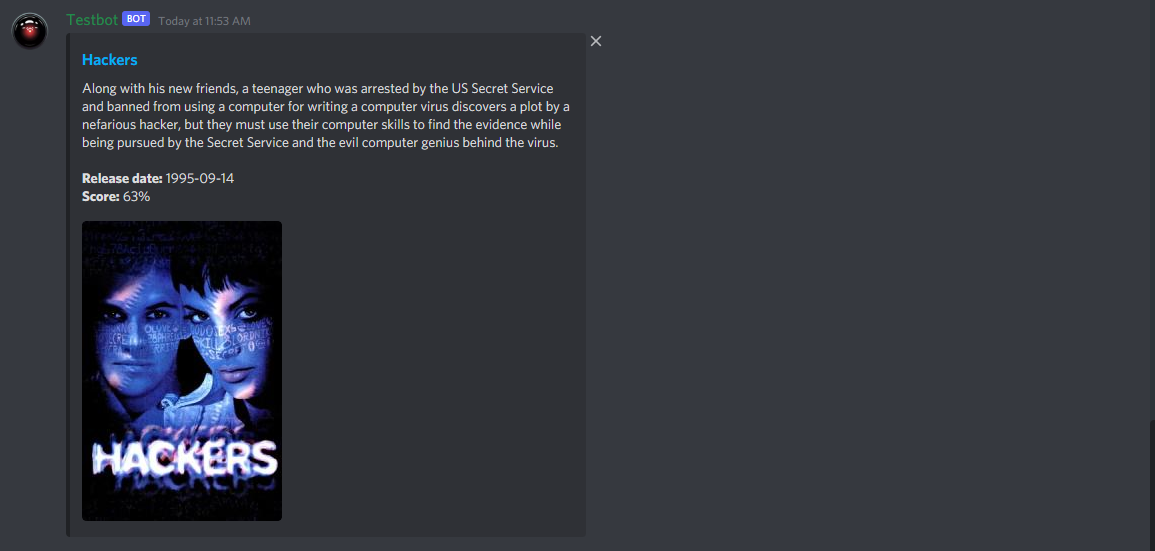
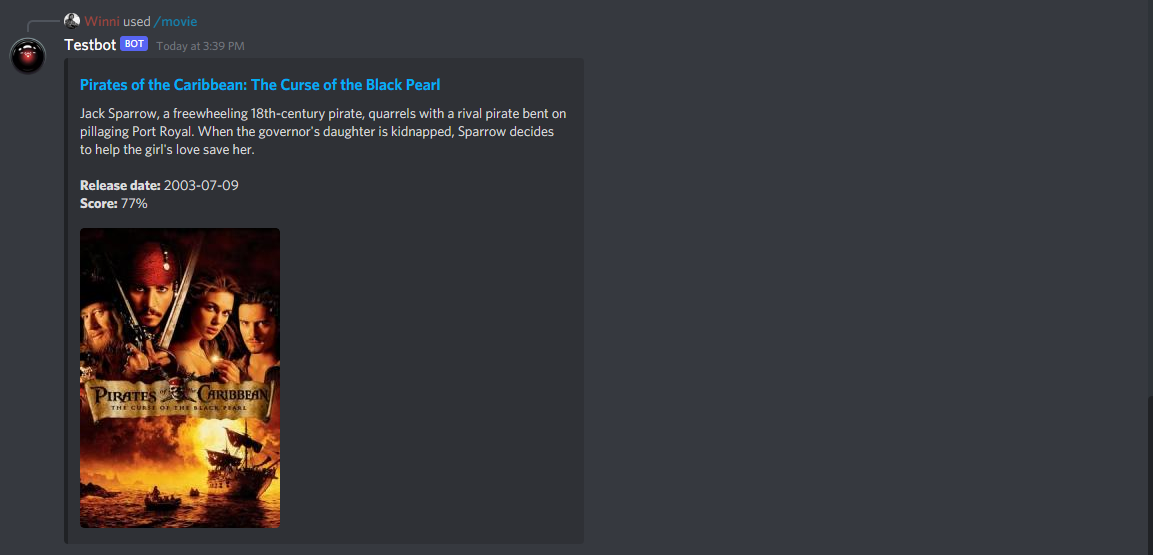
v1.4.6-DEV: Slash all the commands \o/
* Converted `!movie` into slash cmd `/movie`
* Converted `!tv` into slash cmd `/tv`
* Updated `!help` accordingly
* Updated README.md
* Updated screenshots

Changed region(s): [[0.0624, 0.3085, 0.2498, 0.9564], [0.0, 0.0, 0.4996, 0.2777]]

diff --git a/bot/command_handler.go b/bot/command_handler.go
@@ -54,105 +54,6 @@ func (b *Bot) CommandHandler(s *discordgo.Session, m *discordgo.MessageCreate) {
 	l.Debugf("Received a %q command from %v", command, userObj.AuthorName)
 	switch {
 
-	// Check Urban dictionary
-	case command == "!ud" || command == "!urban":
-		if cmdNum == 1 {
-			em, err := handler.UrbanDict(b.HttpClient, "")
-			if err != nil {
-				re := fmt.Sprintf("An error occurred while fetching the urban dictionary API: %v", err)
-				response.AnswerUser(s, m, re, true)
-				return
-			}
-			response.Embed(s, chanInfo.ID, em)
-			return
-		}
-		if cmdNum == 2 {
-			em, err := handler.UrbanDict(b.HttpClient, msgArray[1])
-			if err != nil {
-				re := fmt.Sprintf("An error occurred while fetching the urban dictionary API: %v", err)
-				response.AnswerUser(s, m, re, true)
-				return
-			}
-			response.Embed(s, chanInfo.ID, em)
-			return
-		}
-
-	// Get a random movie recommendation
-	case command == "!movie":
-		if cmdNum == 1 {
-			if b.TMDb == nil {
-				re := "You haven't specified a TMDb API key in your config file."
-				response.AnswerUser(s, m, re, true)
-				return
-			}
-			em, err := handler.TMDbRandMovie(b.TMDb)
-			if err != nil {
-				re := fmt.Sprintf("An error occurred while fetching the TMDB API: %v", err)
-				response.AnswerUser(s, m, re, true)
-				return
-			}
-			response.Embed(s, chanInfo.ID, em)
-			return
-		}
-		if cmdNum > 1 {
-			if b.TMDb == nil {
-				re := "You haven't specified a TMDb API key in your config file."
-				response.AnswerUser(s, m, re, true)
-				return
-			}
-			em, err := handler.TMDbSearchMovie(b.TMDb, msgArray[1:])
-			if err != nil {
-				if err.Error() == "No matching movie found" {
-					re := "Sorry, but I wasn't able to find a movie matching your search criteria."
-					response.AnswerUser(s, m, re, true)
-					return
-				}
-				re := fmt.Sprintf("An error occurred while fetching the TMDB API: %v", err)
-				response.AnswerUser(s, m, re, true)
-				return
-			}
-			response.Embed(s, chanInfo.ID, em)
-			return
-		}
-
-	// Get a random movie recommendation
-	case command == "!tv":
-		if cmdNum == 1 {
-			if b.TMDb == nil {
-				re := "You haven't specified a TMDb API key in your config file."
-				response.AnswerUser(s, m, re, true)
-				return
-			}
-			em, err := handler.TMDbRandTvSeries(b.TMDb)
-			if err != nil {
-				re := fmt.Sprintf("An error occurred while fetching the TMDB API: %v", err)
-				response.AnswerUser(s, m, re, true)
-				return
-			}
-			response.Embed(s, chanInfo.ID, em)
-			return
-		}
-		if cmdNum > 1 {
-			if b.TMDb == nil {
-				re := "You haven't specified a TMDb API key in your config file."
-				response.AnswerUser(s, m, re, true)
-				return
-			}
-			em, err := handler.TMDbSearchTvSeries(b.TMDb, msgArray[1:])
-			if err != nil {
-				if err.Error() == "No matching TV series found" {
-					re := "Sorry, but I wasn't able to find a TV series matching your search criteria."
-					response.AnswerUser(s, m, re, true)
-					return
-				}
-				re := fmt.Sprintf("An error occurred while fetching the TMDB API: %v", err)
-				response.AnswerUser(s, m, re, true)
-				return
-			}
-			response.Embed(s, chanInfo.ID, em)
-			return
-		}
-
 	// SoT: Set RAT cookie
 	case (command == "!setrat" || command == "!rat"):
 		if chanInfo.Type != discordgo.ChannelTypeDM {

diff --git a/bot/slashcmd_handler.go b/bot/slashcmd_handler.go
@@ -340,5 +340,55 @@ func (b *Bot) SlashCmdHandler(s *discordgo.Session, i *discordgo.InteractionCrea
 		}
 		response.SlashCmdEmbedDeferred(s, i.Interaction, em)
 		return
+
+	// TMDB: Return the details of a random or specific movie
+	case cmdName == "movie":
+		response.SlashCmdResponseDeferred(s, i.Interaction)
+		if b.TMDb == nil {
+			re := "You haven't specified a TMDB API key in your config file."
+			response.SlashCmdResponseEdit(s, i.Interaction, userObj, re, true)
+			return
+		}
+		var em *discordgo.MessageEmbed
+		var err error
+		if len(i.Data.Options) != 1 {
+			em, err = handler.TMDbRandMovie(b.TMDb)
+		}
+		if len(i.Data.Options) == 1 {
+			movieTitle := i.Data.Options[0].StringValue()
+			em, err = handler.TMDbSearchMovie(b.TMDb, movieTitle)
+		}
+		if err != nil {
+			re := fmt.Sprintf("An error occurred fetching result from TMDB: %v", err)
+			response.SlashCmdResponseEdit(s, i.Interaction, userObj, re, true)
+			return
+		}
+		response.SlashCmdEmbedDeferred(s, i.Interaction, em)
+		return
+
+	// TMDB: Return the details of a random or specific TV show
+	case cmdName == "tv":
+		response.SlashCmdResponseDeferred(s, i.Interaction)
+		if b.TMDb == nil {
+			re := "You haven't specified a TMDB API key in your config file."
+			response.SlashCmdResponseEdit(s, i.Interaction, userObj, re, true)
+			return
+		}
+		var em *discordgo.MessageEmbed
+		var err error
+		if len(i.Data.Options) != 1 {
+			em, err = handler.TMDbRandTvShow(b.TMDb)
+		}
+		if len(i.Data.Options) == 1 {
+			showTitle := i.Data.Options[0].StringValue()
+			em, err = handler.TMDbSearchTvShow(b.TMDb, showTitle)
+		}
+		if err != nil {
+			re := fmt.Sprintf("An error occurred fetching result from TMDB: %v", err)
+			response.SlashCmdResponseEdit(s, i.Interaction, userObj, re, true)
+			return
+		}
+		response.SlashCmdEmbedDeferred(s, i.Interaction, em)
+		return
 	}
 }

diff --git a/handler/tmdb_search.go b/handler/tmdb_search.go
@@ -7,16 +7,12 @@ import (
 	log "github.com/sirupsen/logrus"
 )
 
-func TMDbSearchMovie(t *tmdb.TMDb, q []string) (*discordgo.MessageEmbed, error) {
+func TMDbSearchMovie(t *tmdb.TMDb, q string) (*discordgo.MessageEmbed, error) {
 	l := log.WithFields(log.Fields{
 		"action": "handler.TMDbSearchMovie",
 	})
 
-	var searchString string
-	for _, keyWord := range q {
-		searchString = fmt.Sprintf("%v %v", searchString, keyWord)
-	}
-	movieResult, err := t.SearchMovie(searchString, nil)
+	movieResult, err := t.SearchMovie(q, nil)
 	if err != nil {
 		l.Errorf("Failed to look up TMDB: %v", err)
 		return &discordgo.MessageEmbed{}, err
@@ -41,23 +37,19 @@ func TMDbSearchMovie(t *tmdb.TMDb, q []string) (*discordgo.MessageEmbed, error) 
 
 	return responseEmbed, nil
 }
-func TMDbSearchTvSeries(t *tmdb.TMDb, q []string) (*discordgo.MessageEmbed, error) {
+func TMDbSearchTvShow(t *tmdb.TMDb, q string) (*discordgo.MessageEmbed, error) {
 	l := log.WithFields(log.Fields{
-		"action": "handler.TMDbSearchTvSeries",
+		"action": "handler.TMDbSearchTvShow",
 	})
 
-	var searchString string
-	for _, keyWord := range q {
-		searchString = fmt.Sprintf("%v %v", searchString, keyWord)
-	}
-	tvSeriesResult, err := t.SearchTv(searchString, nil)
+	tvSeriesResult, err := t.SearchTv(q, nil)
 	if err != nil {
 		l.Errorf("Failed to look up TMDB: %v", err)
 		return &discordgo.MessageEmbed{}, err
 	}
 
 	if len(tvSeriesResult.Results) == 0 {
-		return &discordgo.MessageEmbed{}, fmt.Errorf("No matching TV series found")
+		return &discordgo.MessageEmbed{}, fmt.Errorf("No matching TV show found")
 	}
 
 	randTvSeries := tvSeriesResult.Results[0]

diff --git a/bot/slashcmd_list.go b/bot/slashcmd_list.go
@@ -75,6 +75,34 @@ func (b *Bot) SlashCmdList() []*discordgo.ApplicationCommand {
 			},
 		},
 
+		// Return TMDB information about a random (or specific) movie
+		{
+			Name:        "movie",
+			Description: "Let SoTBot provide you with details about a specific or random movie",
+			Options: []*discordgo.ApplicationCommandOption{
+				{
+					Type:        discordgo.ApplicationCommandOptionString,
+					Name:        "title",
+					Description: "Movie title to look up. If empty a random movie is fetched",
+					Required:    false,
+				},
+			},
+		},
+
+		// Return TMDB information about a random (or specific) tv show
+		{
+			Name:        "tv",
+			Description: "Let SoTBot provide you with details about a specific or random TV show",
+			Options: []*discordgo.ApplicationCommandOption{
+				{
+					Type:        discordgo.ApplicationCommandOptionString,
+					Name:        "title",
+					Description: "TV show to look up. If empty a random movie is fetched",
+					Required:    false,
+				},
+			},
+		},
+
 		// With /play you can have the bot join a voice channel and play
 		// a pre-defined audio file
 		{

diff --git a/handler/help.go b/handler/help.go
@@ -4,10 +4,6 @@ package handler
 func Help() []string {
 	helpMsg := make([]string, 0)
 	helpMsg = append(helpMsg, `General channel commands:
-   !movie <query>                - Look up the <query> in the TMDb movie database. If <query> is omitted, a
-                                   random movie is chosen
-   !tv <query>                   - Look up the <query> in the TMDb TV series database. If <query> is omitted, a
-                                   random TV series is chosen
    [!userinfo|!info]             - Tells you, if you are registered with the myself
    [!register|!reg] <@nick>      - Registers <@nick> as user in the bot's database for them to access
                                    some advances features (like the SoT commands)

diff --git a/handler/tmdb_rand.go b/handler/tmdb_rand.go
@@ -51,9 +51,9 @@ func TMDbRandMovie(t *tmdb.TMDb) (*discordgo.MessageEmbed, error) {
 	return responseEmbed, nil
 }
 
-func TMDbRandTvSeries(t *tmdb.TMDb) (*discordgo.MessageEmbed, error) {
+func TMDbRandTvShow(t *tmdb.TMDb) (*discordgo.MessageEmbed, error) {
 	l := log.WithFields(log.Fields{
-		"action": "handler.TMDbRandTvSeries",
+		"action": "handler.TMDbRandTvShow",
 	})
 
 	randPage, err := random.Number(500)

diff --git a/README.md b/README.md
@@ -184,6 +184,17 @@ the requester.
 Example:
 ![Screenshot /urban](documentation/urban.png)
 
+### The Movie Database
+With the `/movie` command, you can have the bot look up a random movie from [The Movie Database](https://themoviedb.org)
+(TMDb). If the command is followed by movie title, the title will be used as search string.
+
+The same applies to `/tv`, but instead of movies it will look up TV series.
+
+For this feature to work, you need a valid API key for the TMDb API. If no API key is found in the config file, an
+error will be returned from the bot.
+
+Example:
+![Screenshot /movie](documentation/tmdb_movie.png)
 
 ### Sea of Thieves related commands
 Only registered users will be able to use the SoT specific bot features, as this requires API access, which
@@ -305,18 +316,6 @@ has likely expired and you need to renew it. Once done, it will not notify you a
 `!setrat` command again to update your cookie. This will reset the "notified" flag for the user. When the "notified"
 flag is set, the bot will also not try to access the API anymore to avoid too many failed requests until the 
 "notifed" flag was removed.
-
-### The Movie Database
-With the `!movie` command, you can have the bot look up a random movie from [The Movie Database](https://themoviedb.org) 
-(TMDb). If the command is followed by arguments, the arguments will be used as search string.
-
-The same applies to `!tv`, but instead of movies it will look up TV series.
-
-For this feature to work, you need a valid API key for the TMDb API. If no API key is found in the config file, an
-error will be returned from the bot.
-
-Example:
-![Screenshot !movie](documentation/tmdb_movie.png)
 
 ## Helpful stuff
 ### Converting a MP3 file to a bot-compatible DCA file
